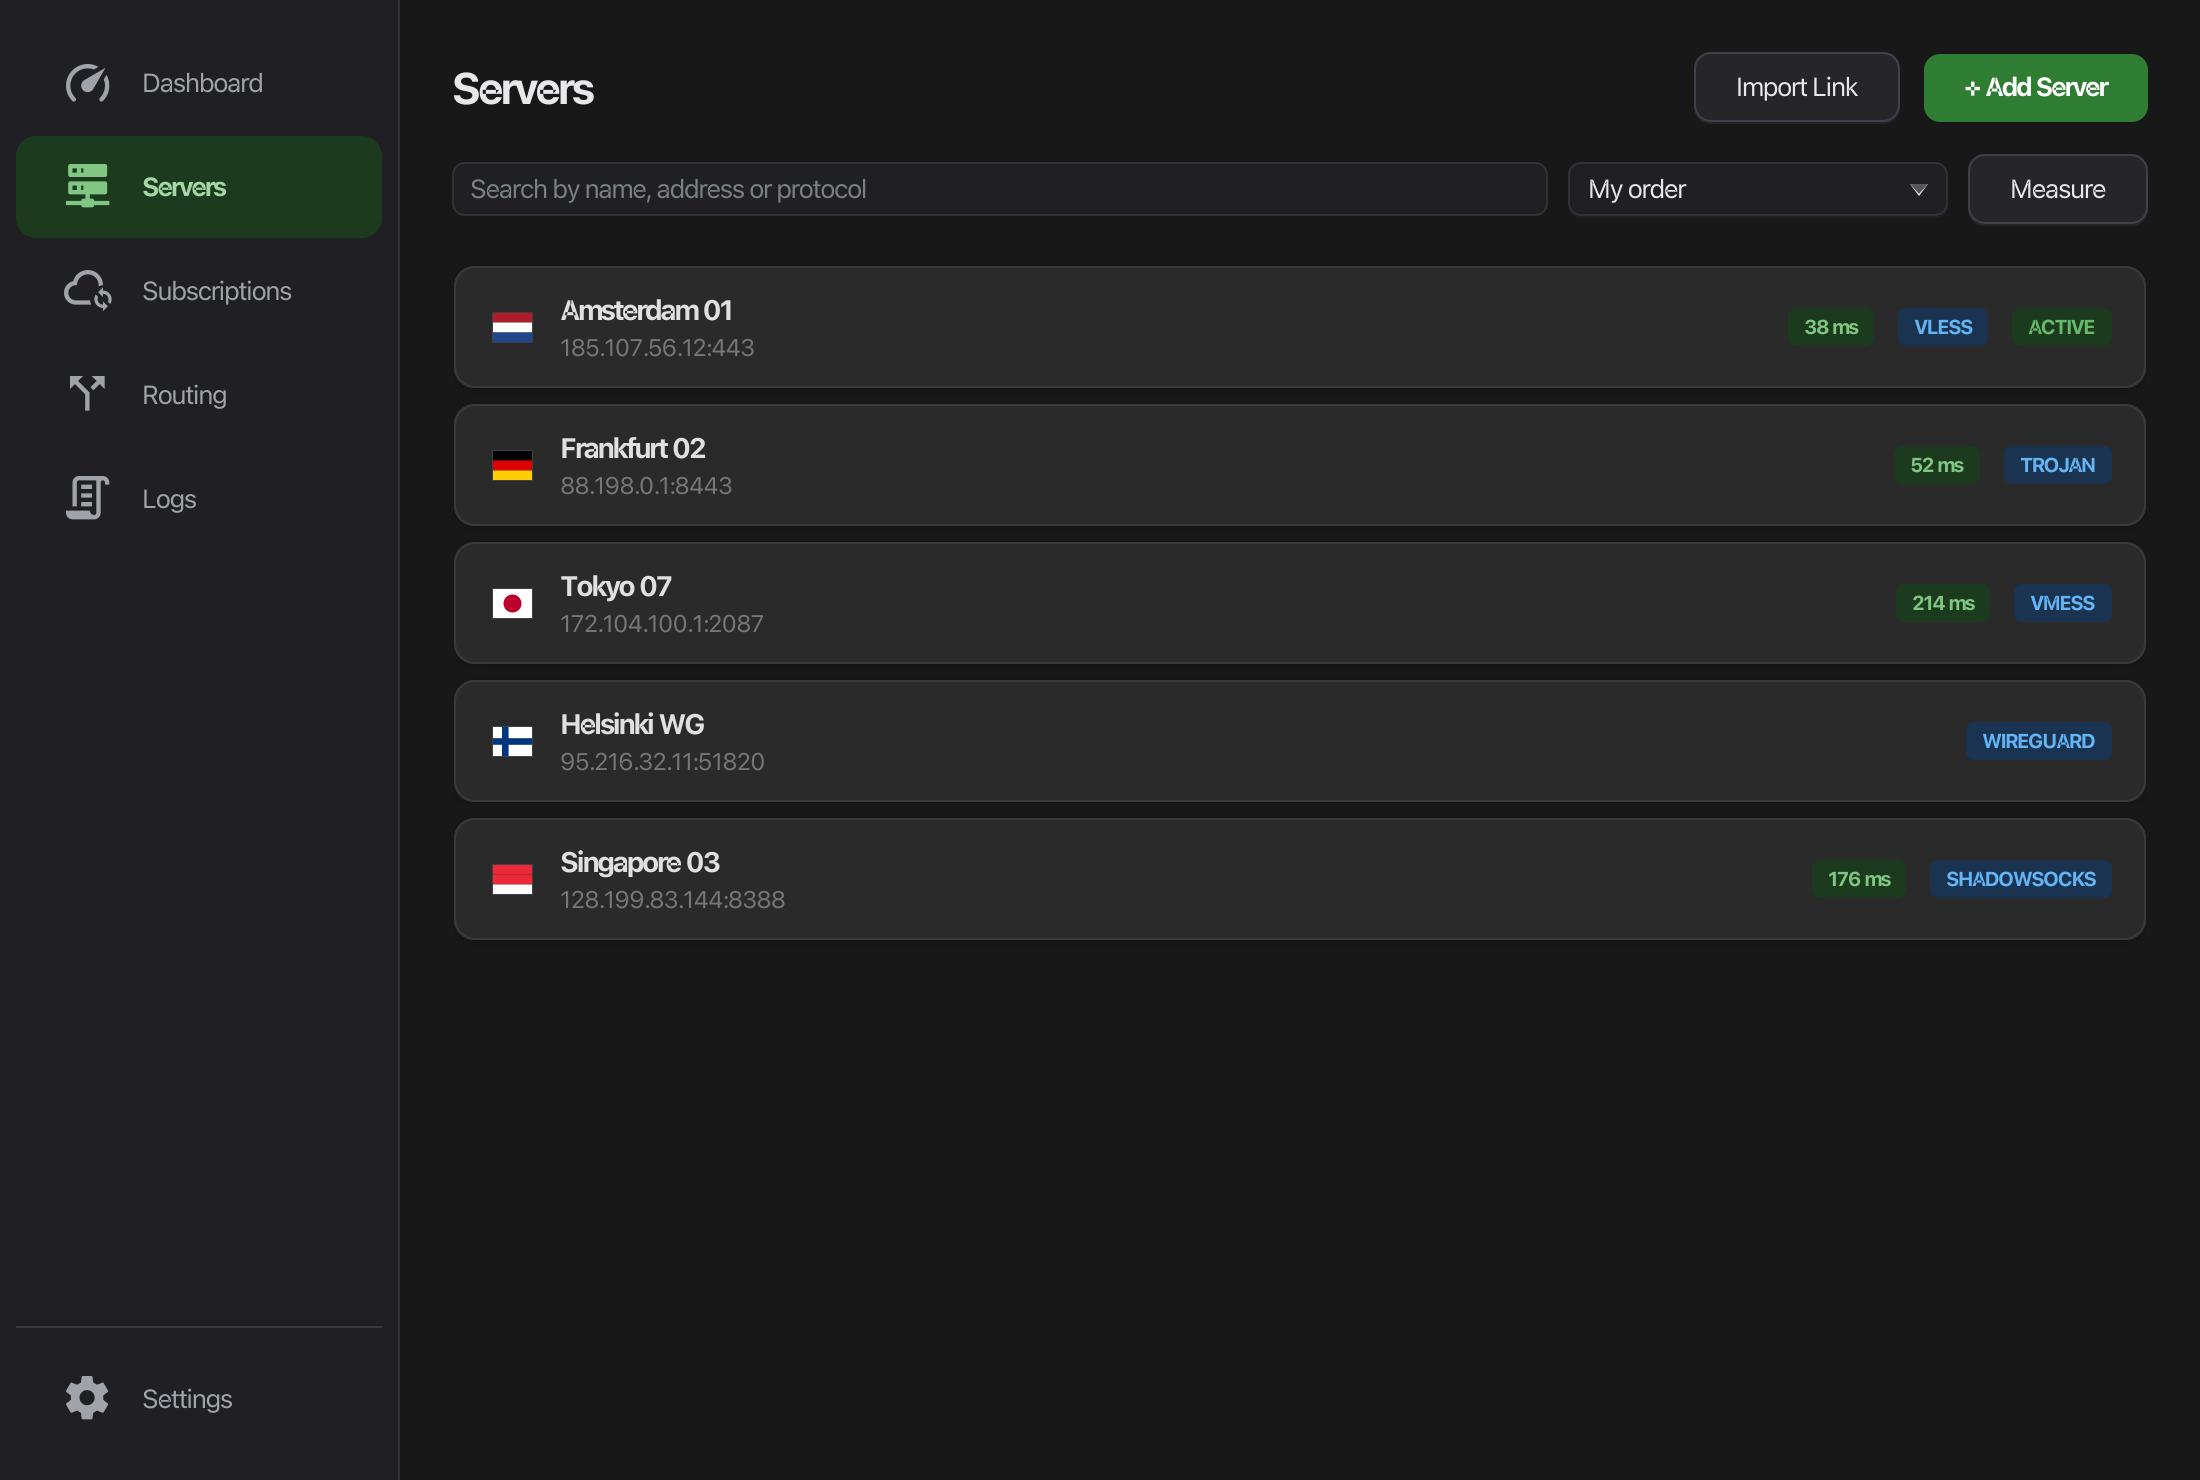
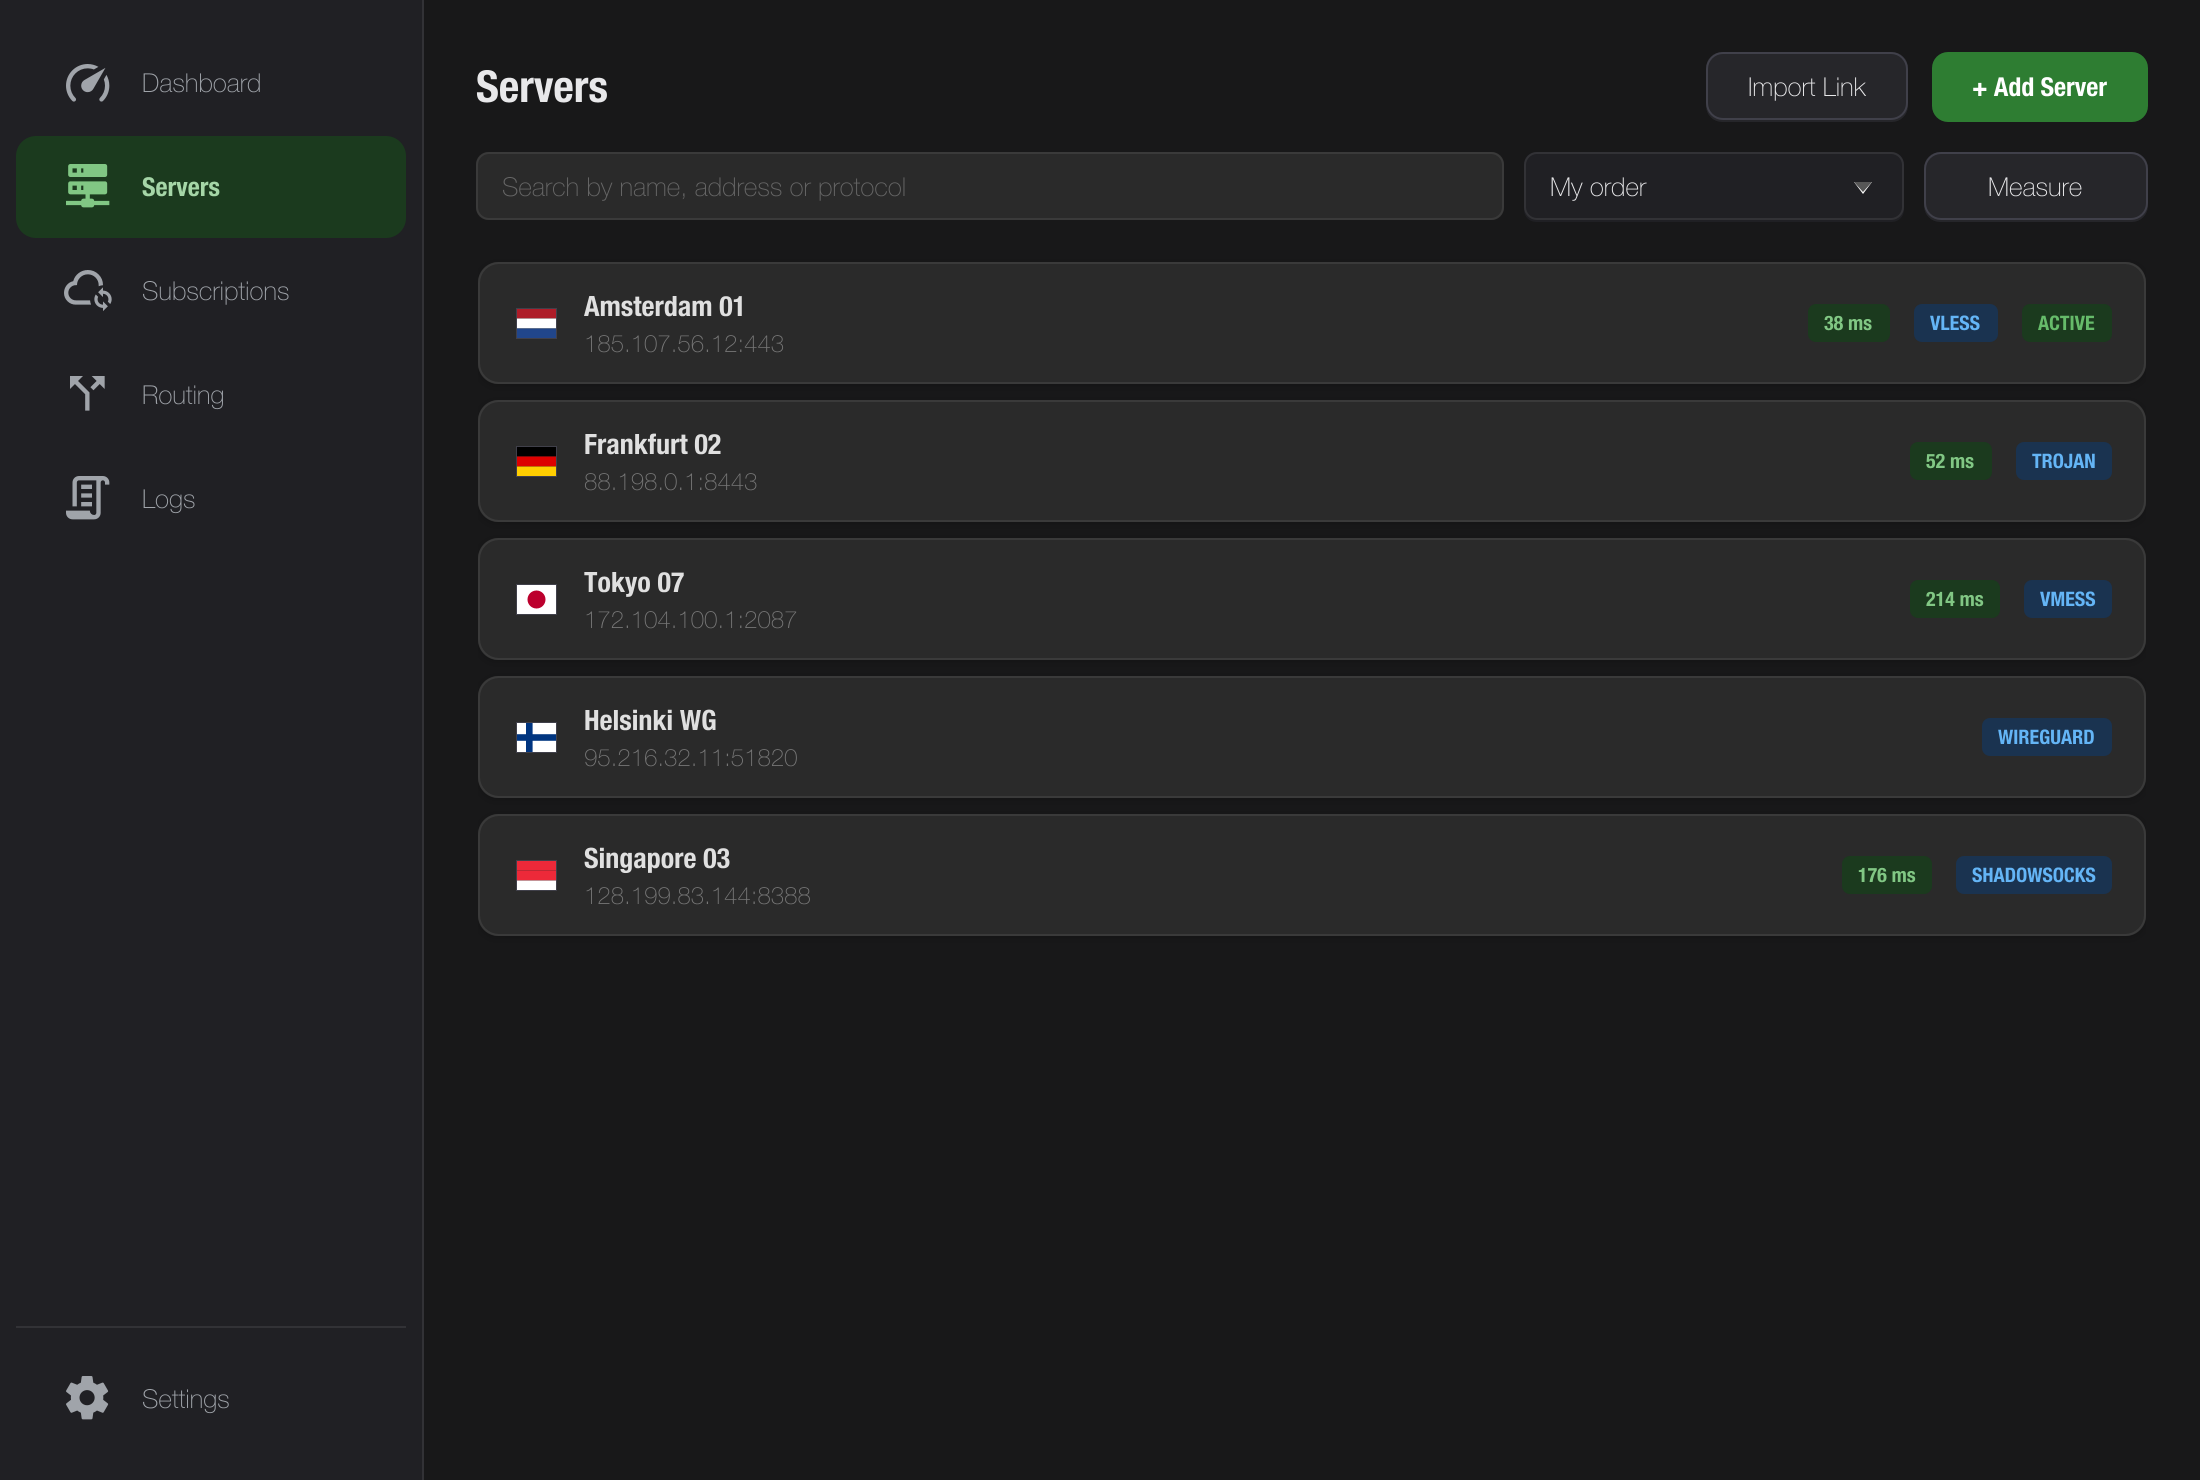
docs: regenerate the screenshots, and stop them mangling their own text (#150)
Two things were wrong with the committed screenshots, and only one of them
was staleness.

They showed a dashboard the app no longer has — the Session card and the Test
Latency button, both removed in #148.

They also showed mangled text. "4.0 MB/s" rendered with the slash struck
through the B because the headless JVM these are generated in mis-advances
glyphs in the system font: the character after certain letters is drawn on top
of them. It is not an app defect, a normally launched client renders the same
strings correctly, but it has been baked into every screenshot since they were
introduced. Probing five font families settles it — Helvetica Neue and Arial
render cleanly, "System" and anything falling back to it does not — so the
generator now applies a screenshot-only stylesheet naming a font that works.

The generator also registers an updater it never starts. The previous run
caught this machine mid-update and produced a README screenshot announcing a
pending version, which is wrong for every reader on a later one.

diff --git a/src/test/resources/css/screenshot-font.css b/src/test/resources/css/screenshot-font.css
@@ -1,0 +1,19 @@
+/*
+ * Screenshot-only font override. Applied on top of the theme by
+ * ScreenshotGenerator; never shipped.
+ *
+ * The headless JVM this runs in mis-advances glyphs in the system font: the
+ * character after certain letters is drawn on top of them, so "4.0 MB/s"
+ * comes out with the slash through the B and "SF Pro Display" with the r on
+ * the P. It is not a defect in the app — a normally launched client renders
+ * the same strings correctly — but it is baked into every README screenshot
+ * generated so far, which is how the docs came to show mangled numbers.
+ *
+ * Named fonts are unaffected (Helvetica Neue and Arial both render cleanly),
+ * so the fix is to name one. Helvetica Neue is the closest stand-in for the
+ * macOS system font the app actually uses.
+ */
+.root-pane,
+.speed-value {
+    -fx-font-family: "Helvetica Neue";
+}

diff --git a/src/test/java/com/vlessclient/ui/view/ScreenshotGenerator.java b/src/test/java/com/vlessclient/ui/view/ScreenshotGenerator.java
@@ -8,6 +8,7 @@ import com.vlessclient.service.ConfigStore;
 import com.vlessclient.service.LatencyTester;
 import com.vlessclient.service.SingBoxEngine;
 import com.vlessclient.service.TrafficMonitor;
+import com.vlessclient.service.UpdateManager;
 import java.io.File;
 import java.nio.file.Files;
 import java.nio.file.Path;
@@ -73,6 +74,12 @@ public class ScreenshotGenerator extends ApplicationTest {
         // machine with a working install shows.
         ServiceLocator.register(SingBoxEngine.class,
                 new SingBoxEngine(Path.of("/usr/local/bin/sing-box")));
+        // An updater that is never started, so the dashboard's update banner
+        // stays shut. Whether a release happens to be pending on the machine
+        // running this is not a property of the app, and a README screenshot
+        // announcing "version X is available" is wrong for every reader on a
+        // later version. It also keeps the shot off the network.
+        ServiceLocator.register(UpdateManager.class, new UpdateManager());
 
         FXMLLoader loader = new FXMLLoader(getClass().getResource("/fxml/MainView.fxml"));
         Parent root = loader.load();
@@ -83,7 +90,11 @@ public class ScreenshotGenerator extends ApplicationTest {
         // this the screenshots come out in stock Modena, which is not a UI the
         // project ships.
         scene.getStylesheets().setAll(
-                getClass().getResource("/css/dark.css").toExternalForm());
+                getClass().getResource("/css/dark.css").toExternalForm(),
+                // After the theme, so it wins: the headless text stack draws
+                // the system font's glyphs on top of each other, which is why
+                // the committed screenshots read "4.0 MƁ/s". See the file.
+                getClass().getResource("/css/screenshot-font.css").toExternalForm());
         stage.setScene(scene);
         stage.show();
     }
